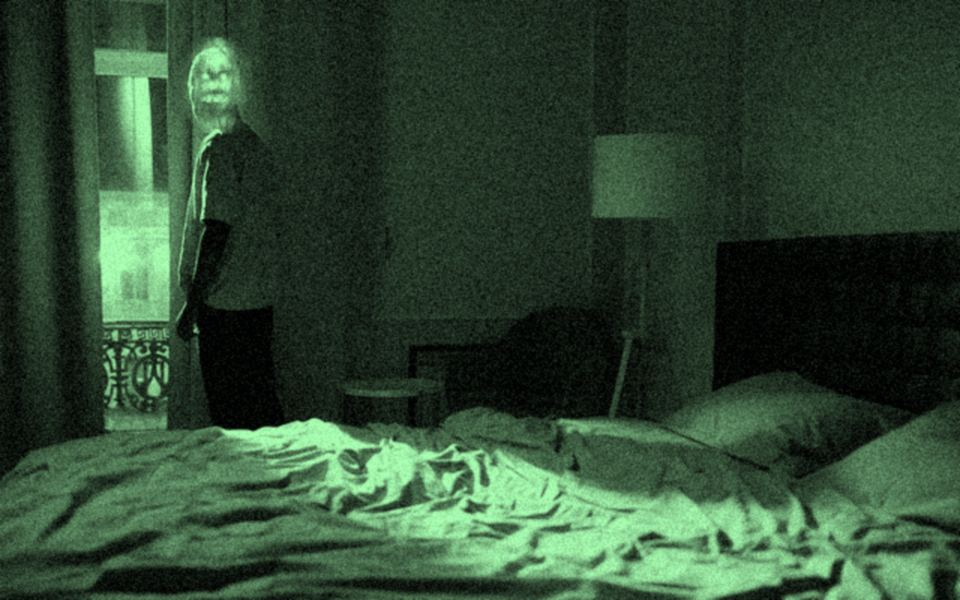
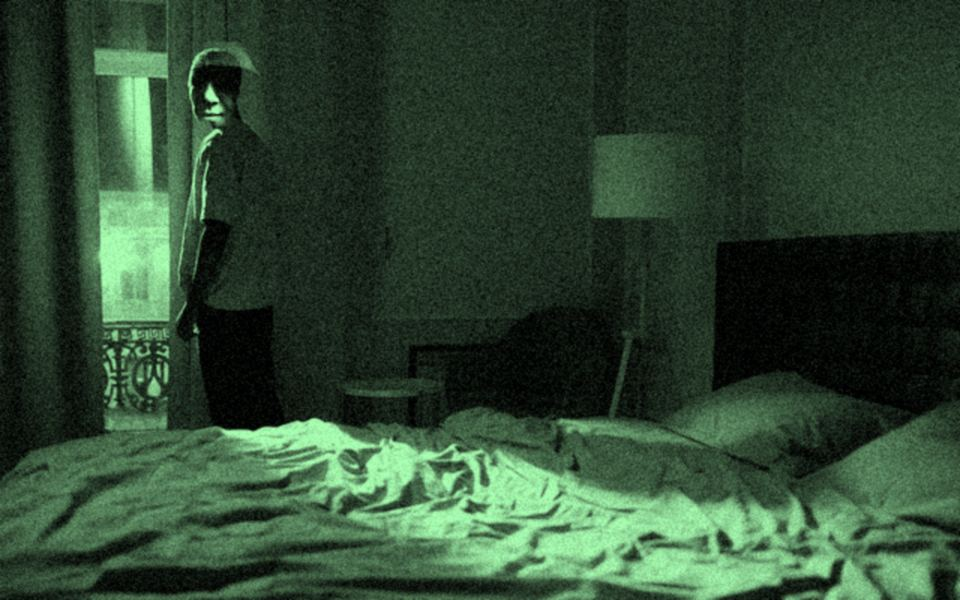
Remove the 'まだ、みてる' finale; switch culprit imagery to male
- iwakan ending paragraph is plain text again
- Replace female silhouette/photos (ghost, face, eyes, kitchen, jumpscare) with male ones; shadow figures take a kind option (man for iwakan)

Changed region(s): [[0.1875, 0.06, 0.2812, 0.24]]

diff --git a/works/iwakan/script.js b/works/iwakan/script.js
@@ -254,7 +254,7 @@ const scenes = {
 
   /* 第九章 */
   "c9-inside"() {
-    HorrorFX.shadowFigures({ figures: [{ x: 80, h: 46, lean: 3 }], duration: 3400, fadeIn: 1500 });
+    HorrorFX.shadowFigures({ kind: "man", figures: [{ x: 80, h: 46, lean: 3 }], duration: 3400, fadeIn: 1500 });
     HorrorFX.heartbeat({ duration: 3400, bpm: 88, volume: 0.32 });
     creakAbove({ vol: 0.35, delay: 900 });
   },
@@ -322,7 +322,7 @@ const scenes = {
   async "c11-crawl"() {
     CX.Cam.frame("room-ghost", { jolt: true });
     await sleep(1400);
-    HorrorFX.jumpscare({ image: A + "scare-hair.jpg", sound: false, duration: 650 });
+    HorrorFX.jumpscare({ image: A + "scare-man.jpg", sound: false, duration: 650 });
     S("scare-b", { volume: 0.9, wet: 0.1, duration: 3 });
     HorrorFX.haptic([120, 40, 300]);
     await sleep(900);
@@ -429,7 +429,7 @@ const scenes = {
     HorrorFX.heartbeat({ duration: 3600, bpm: 74, volume: 0.3 });
   },
   "c14-behind"() {
-    HorrorFX.shadowFigures({ figures: [{ x: 18, h: 52, lean: -3 }], duration: 3600, fadeIn: 1800 });
+    HorrorFX.shadowFigures({ kind: "man", figures: [{ x: 18, h: 52, lean: -3 }], duration: 3600, fadeIn: 1800 });
     S("breath", { volume: 0.3, pan: -0.8, wet: 0.4, lowpass: 1500, offset: 0.8, duration: 4 });
   },
 
@@ -471,37 +471,7 @@ const scenes = {
     HorrorFX.footsteps({ kind: "light", steps: 6, interval: 540, volume: 0.35, fromVolume: 0.12, toVolume: 0.4, pan: -0.25, muffled: true, creak: 0.1 });
     await sleep(3400);
     HorrorFX.silence({ duration: 2800, visual: false, restoreMs: 2500 });
-    HorrorFX.shadowFigures({ figures: [{ x: 90, h: 34, lean: 2 }], duration: 2600, fadeIn: 1400 });
-  },
-  async "ae-finale"() {
-    HorrorFX.silence({ restore: false, visual: true });
-    camReady();
-    CX.Cam.show({ big: true, frame: "new-empty", label: "CAM 01 新居", clock: null });
-    CX.HUD.on();
-    S("beep", { volume: 0.5, wet: 0 });
-    await sleep(4200);
-    // 映像が一瞬途切れ、戻ったときには——ベッドの足元に、立っている
-    CX.Cam.cut(140);
-    CX.Cam.frame("new-figure", { jolt: true });
-    HorrorFX.staticBurst({ duration: 220, volume: 0.45 });
-    CX.HUD.glitch();
-    await sleep(4000);
-    CX.Cam.zoom({ x: 88, y: 44, scale: 2.6, ms: 5200 }); // 右の壁際に立つ、長い服の人影へ寄っていく
-    HorrorFX.heartbeat({ duration: 5200, bpm: 96, volume: 0.35 });
-    await sleep(5400);
-    HorrorFX.jumpscare({ image: A + "scare-doorway.jpg", sound: false, duration: 900 });
-    S("scare-b", { volume: 1, wet: 0.1 });
-    HorrorFX.shake(document.body, { duration: 450, sound: false });
-    HorrorFX.haptic([200, 60, 420]);
-    await sleep(500);
-    CX.Cam.hide();
-    HorrorFX.staticBurst({ duration: 500, volume: 0.6 });
-    await sleep(900);
-    CX.Last.show("まだ、みてる");
-    S("whisper-b", { volume: 0.85, offset: 1.6, duration: 5.5, wet: 0.45, pan: 0.2 });
-    await sleep(6200);
-    CX.Last.hide(1800);
-    HorrorFX.unsilence({ restoreMs: 6000 });
+    HorrorFX.shadowFigures({ kind: "man", figures: [{ x: 90, h: 34, lean: 2 }], duration: 2600, fadeIn: 1400 });
   },
 };
 

diff --git a/works/iwakan/fx.js b/works/iwakan/fx.js
@@ -57,7 +57,7 @@
   const FRAME_DIR = "assets/cam/cam-";
   const FRAMES = [
     "room-closed", "room-ajar", "room-open", "room-arm", "room-ghost", "room-ghost2",
-    "room-stand", "room-stare", "room-empty", "kitchen", "genkan", "genkan-ghost", "new-empty", "new-figure",
+    "room-stand", "room-stare", "room-empty", "kitchen", "genkan", "genkan-ghost", "new-empty",
   ];
 
   const Cam = {
@@ -330,28 +330,11 @@
     if (on && ms) setTimeout(() => document.body.classList.remove("cx-stale"), ms);
   }
 
-  /* ---------------- 最後の黒画面と一言 ---------------- */
-  const Last = {
-    el: null,
-    show(text) {
-      if (!this.el) this.el = div("cx-last", "<span></span>");
-      this.el.querySelector("span").textContent = text;
-      void this.el.offsetWidth;
-      this.el.classList.add("is-on");
-      setTimeout(() => this.el.classList.add("is-text"), 700);
-    },
-    hide(ms = 1200) {
-      if (!this.el) return;
-      this.el.style.transition = "opacity " + ms + "ms ease";
-      this.el.classList.remove("is-on", "is-text");
-    },
-  };
-
   // 点検口／通気口の暗がりの中に、目を浮かべる
   function eyesIn(kind, opts = {}) {
     const c = Ceiling.center(kind);
     return eyes({ x: c.x + "px", y: c.y + "px", width: Math.round(c.w * 0.92), ...opts });
   }
 
-  window.CX = { HUD, Cam, Ceiling, Lids, Last, eyes, eyesIn, cold, stale, wait };
+  window.CX = { HUD, Cam, Ceiling, Lids, eyes, eyesIn, cold, stale, wait };
 })();

diff --git a/works/iwakan/fx.css b/works/iwakan/fx.css
@@ -337,8 +337,8 @@
   z-index: 6800;
   pointer-events: none;
   width: var(--ew);
-  aspect-ratio: 480 / 222;
-  margin: calc(var(--ew) * -0.231) 0 0 calc(var(--ew) * -0.5);
+  aspect-ratio: 480 / 129;
+  margin: calc(var(--ew) * -0.134) 0 0 calc(var(--ew) * -0.5);
   background: url("assets/cam/eyes.jpg") center / cover no-repeat;
   mix-blend-mode: screen;
   opacity: 0;
@@ -408,30 +408,6 @@ body.cx-cold .cx-cold-ov { opacity: 1; }
 .manual-btn { transition: border-color 0.5s, color 0.5s, box-shadow 0.5s; }
 .manual-btn:hover { border-color: #888; color: #ddd; }
 .manual-btn.is-wrong { border-color: #8a2020; color: #c46060; box-shadow: 0 0 14px rgba(160, 30, 30, 0.35); }
-
-/* ---------- 最後の囁き ---------- */
-.cx-last {
-  position: fixed;
-  inset: 0;
-  z-index: 8800;
-  display: flex;
-  align-items: center;
-  justify-content: center;
-  pointer-events: none;
-  background: #000;
-  opacity: 0;
-  transition: opacity 0.2s ease;
-}
-.cx-last.is-on { opacity: 1; }
-.cx-last span {
-  font-size: clamp(1.8rem, 7vw, 3.4rem);
-  letter-spacing: 0.3em;
-  color: #d9d4c8;
-  text-shadow: 0 0 22px rgba(255, 255, 255, 0.25);
-  opacity: 0;
-  transition: opacity 3.6s ease;
-}
-.cx-last.is-text span { opacity: 0.9; }
 
 @media (max-width: 600px) {
   .cx-cam:not(.is-big) { width: min(250px, 66vw); right: 8px; bottom: 8px; }

diff --git a/common/horror.js b/common/horror.js
@@ -1104,7 +1104,7 @@
   }
 
   /* ---------------- 人影（画面の端に、青白い人の形がぼんやり立つ） ---------------- */
-  function shadowFigures({ figures, duration = 2600, fadeIn = 900 } = {}) {
+  function shadowFigures({ figures, duration = 2600, fadeIn = 900, kind = "woman" } = {}) {
     const list = figures || [
       { x: 36, h: 52, lean: -2 },
       { x: 62, h: 42, lean: 4 },
@@ -1114,7 +1114,7 @@
     root.style.setProperty("--hfx-shadow-in", fadeIn + "ms");
     list.forEach((f, i) => {
       const el = document.createElement("div");
-      el.className = "hfx-shadow-figure";
+      el.className = "hfx-shadow-figure" + (kind === "man" ? " hfx-shadow-figure--man" : "");
       el.style.setProperty("--x", f.x + "%");
       el.style.setProperty("--h", f.h + "vh");
       el.style.setProperty("--lean", (f.lean || 0) + "deg");

diff --git a/works/iwakan/17.html b/works/iwakan/17.html
@@ -38,7 +38,7 @@
 
   <p class="hfx-reveal scene-trigger" data-scene="ae-gaze">ただ、最近、通勤の途中、ふと誰かの視線を感じることがある。振り返っても、そこには誰もいない。</p>
 
-  <p class="hfx-reveal scene-trigger" data-whisper="まだ、みてる" data-scene="ae-finale">きっとこれも、気にしすぎの始まりなのかもしれない。</p>
+  <p class="hfx-reveal">きっとこれも、気にしすぎの始まりなのかもしれない。</p>
 
   <p class="hfx-reveal end-mark">―― 最近、違和感を感じるんです ―― 完</p>
 

diff --git a/common/horror.css b/common/horror.css
@@ -588,8 +588,10 @@ body.hfx-silent .hfx-frame {
   animation: hfx-shadow-sway 4.2s ease-in-out infinite, hfx-shadow-flicker 2.6s steps(1, end) infinite;
 }
 
-.hfx-shadow-figure:nth-child(2) {
-  transform: translateX(-50%) scaleX(-1) rotate(var(--lean, 0deg));
+/* 男の人影（フードつきのコートの男） */
+.hfx-shadow-figure--man {
+  width: calc(var(--h, 46vh) * 0.451);
+  background-image: url("shadow-man.png");
 }
 
 @keyframes hfx-shadow-sway {

diff --git a/works/iwakan/assets/CREDITS.md b/works/iwakan/assets/CREDITS.md
@@ -91,11 +91,11 @@
 - scare-hair.jpg — Pexels photo 7342412
 - scare-doorway.jpg — Pexels photo 14173576
 
-## 防犯カメラ映像・天井・目・人影に使った写真（assets/cam/ と common/shadow-woman.png。いずれも Pexels・加工して使用）
-- 寝室（第10〜11章）：photo 6943996（窓際の男）／photo 8337691（ぼやけた人影）／photo 33578582（手）／photo 4058697（冷蔵庫の前の人）
+## 防犯カメラ映像・天井・目・人影に使った写真（assets/cam/ と common/shadow-man.png。いずれも Pexels・加工して使用）
+- 寝室（第10〜11章）：photo 6943996（窓際の男）／photo 6187451（フードの男）／photo 33578582（手）／photo 10379533（冷蔵庫の前の男）
 - 新居の寝室（あとがき）：photo 6943990
 - 玄関（第3・5章）：photo 11570561
 - 天井・シミ：photo 14032089
-- 暗がりの目：photo 18870805
-- 人影（common/shadow-woman.png）：photo 16310042
-- こちらを向く顔：scare-hair.jpg（photo 7342412）を合成
+- 暗がりの目：photo 14660901
+- 人影（common/shadow-man.png）：photo 10497778
+- ジャンプスケア（scare-man.jpg）：photo 12947855
